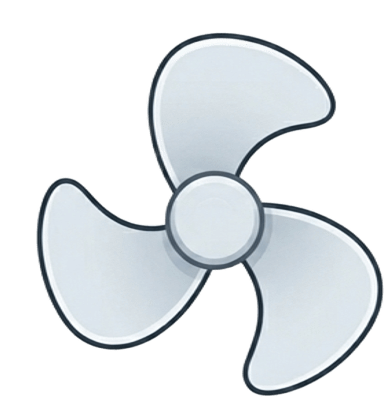
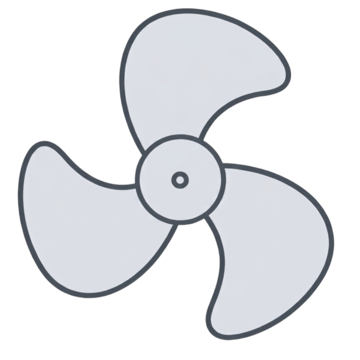
jaya

Changed region(s): [[0.0306, 0.0, 1.0, 1.0]]

diff --git a/chargeEffects.js b/chargeEffects.js
@@ -103,6 +103,125 @@ var CHARGE_EFFECTS = {
                 p._fx.glow = null;
             }
         }
+    },
+
+    // ── FAN ─────────────────────────────────────────────────────────────────
+    // A table fan rendered as three stacked layers: the base gadget sprite is the
+    // BODY (bottom, used for size), and this effect adds the BLADE (middle) and the
+    // FRONT_GRILL (top). Both secondary layers are smaller than the body and are
+    // pinned to the body's top-left at offset (0,0), scaled by the same factor the
+    // body was scaled by — so they stay inside the body's rect.
+    //
+    // As charge goes 0 → 1 the blade spins clockwise, easing from a slow crawl up
+    // to ~`maxRpm` (a real-fan-ish top speed). Body and grill stay still.
+    fan: {
+        assets(params) {
+            return {
+                blade: (params.blade || 'table_fan/blade.png'),
+                grill: (params.grill || 'table_fan/front_grill.png')
+            };
+        },
+
+        init(scene, p, params) {
+            p._fx = p._fx || {};
+
+            const bladeKey = `fx_${p._gadgetName}_blade`;
+            const grillKey = `fx_${p._gadgetName}_grill`;
+            const bodyKey  = `gadget_${p._gadgetName}_normal`;
+            if (!scene.textures.exists(bladeKey) || !scene.textures.exists(bodyKey)) return;
+
+            // Same scale the body was drawn at (display / native), so the secondary
+            // art keeps its real proportions relative to the body.
+            const bodyImg = scene.textures.get(bodyKey).getSourceImage();
+            const scale   = p._gadgetDisplayWidth / bodyImg.width;
+
+            // Body's top-left in world space (body is centered on the origin).
+            const bodyLeft = p._gadgetOriginX - p._gadgetDisplayWidth  / 2;
+            const bodyTop  = p._gadgetOriginY - p._gadgetDisplayHeight / 2;
+
+            const baseDepth = (p.gadgetSprite ? p.gadgetSprite.depth : 4);
+
+            // Pin a centered-origin sprite so its top-left lands at the body's
+            // top-left plus `off` (an offset in body-native pixels, scaled to match).
+            const place = (key, depth, off) => {
+                const img = scene.textures.get(key).getSourceImage();
+                const w  = img.width  * scale;
+                const h  = img.height * scale;
+                const ox = (off && off.x ? off.x : 0) * scale;
+                const oy = (off && off.y ? off.y : 0) * scale;
+                const s = scene.add.image(bodyLeft + ox + w / 2, bodyTop + oy + h / 2, key)
+                    .setDepth(depth);
+                s.setDisplaySize(w, h);   // origin 0.5 → rotates about its own center
+                return s;
+            };
+
+            // Blade is offset (36,41) from the body's top-left; grill stays at (0,0).
+            const blade = place(bladeKey, baseDepth + 0.05, params.bladeOffset || { x: 36, y: 41 });
+            const grill = scene.textures.exists(grillKey)
+                ? place(grillKey, baseDepth + 0.10, params.grillOffset || { x: 0, y: 0 })
+                : null;
+
+            // Fade the layers in alongside the body's pop-in animation so they don't
+            // flash at full size while the body is still growing.
+            const idx = (scene.platforms ? scene.platforms.indexOf(p) : 0);
+            [blade, grill].forEach(s => {
+                if (!s) return;
+                s.setAlpha(0);
+                scene.tweens.add({
+                    targets: s, alpha: 1, duration: 400,
+                    delay: Math.max(0, idx) * 150, ease: 'Sine.easeOut'
+                });
+            });
+
+            // Continuous clockwise spin driven by an infinite angle tween whose
+            // timeScale we throttle from 0 (still) up to maxRpm as charge fills.
+            // At timeScale 1 the tween does one revolution per `baseRevMs` = 60 rpm.
+            const baseRevMs = 1000;
+            const spin = scene.tweens.add({
+                targets: blade, angle: '+=360',
+                duration: baseRevMs, repeat: -1, ease: 'Linear'
+            });
+            spin.timeScale = 0;
+
+            p._fx.fanBlade     = blade;
+            p._fx.fanGrill     = grill;
+            p._fx.fanSpin      = spin;
+            p._fx.fanSpeedTween = null;
+            p._fx.fanMaxRpm    = params.maxRpm ?? 700;  // top speed (lowered for readability)
+            p._fx.fanRampExp   = params.rampExp ?? 2.0; // >1 = ease in (slow early, ramps later)
+            p._fx.fanSmoothMs  = params.speedSmoothMs ?? 1100; // glide-to-target time
+            p._fx.fanBaseRpm   = 60000 / baseRevMs;     // rpm at timeScale 1
+        },
+
+        onProgress(scene, p, progress, params) {
+            const spin = p._fx && p._fx.fanSpin;
+            if (!spin) return;
+            const mark = CONFIG.PLATFORM.OPERATING_CAPACITY_MARK || 1;
+            const t    = Math.min(progress / mark, 1);  // 0 → 1 by the mark, then held
+
+            // Charge arrives in discrete per-second steps, but speed shouldn't jump.
+            // Ease the curve (t^rampExp) so the spin keeps accelerating across the
+            // whole fill, then glide the spin's timeScale toward the new target like
+            // Unity's Mathf.MoveTowards instead of snapping to it.
+            const eased  = Math.pow(t, p._fx.fanRampExp);
+            const target = (p._fx.fanMaxRpm * eased) / p._fx.fanBaseRpm;
+
+            if (p._fx.fanSpeedTween) p._fx.fanSpeedTween.remove();
+            p._fx.fanSpeedTween = scene.tweens.add({
+                targets: spin, timeScale: target,
+                duration: p._fx.fanSmoothMs, ease: 'Linear'  // constant-rate, MoveTowards-like
+            });
+        },
+
+        onOvercharge() { /* keep spinning until the explosion/cleanup tears it down */ },
+
+        cleanup(scene, p) {
+            if (!p._fx) return;
+            if (p._fx.fanSpeedTween) { p._fx.fanSpeedTween.remove(); p._fx.fanSpeedTween = null; }
+            if (p._fx.fanSpin)  { p._fx.fanSpin.remove(); p._fx.fanSpin = null; }
+            if (p._fx.fanBlade) { scene.tweens.killTweensOf(p._fx.fanBlade); p._fx.fanBlade.destroy(); p._fx.fanBlade = null; }
+            if (p._fx.fanGrill) { scene.tweens.killTweensOf(p._fx.fanGrill); p._fx.fanGrill.destroy(); p._fx.fanGrill = null; }
+        }
     }
 };
 

diff --git a/gadgetData.js b/gadgetData.js
@@ -232,6 +232,23 @@ var GADGET_SPRITES = [
         "connection_height": 0.3,
         "connection_left_padding": 0.5
     },
+    {
+        // Table fan: body.png is the base sprite (drives display size); the blade
+        // and front grill are layered on top by the "fan" charge effect. The blade
+        // spins clockwise, ramping from slow to fan-like top speed as charge fills.
+        "name": "table_fan",
+        "normal_sprite": "table_fan/body.png",
+        "burnedout_sprite": "table_fan/body.png",
+        "connection_height": 0.3,
+        "connection_left_padding": 0.5,
+        "charge_effect": "fan",
+        "charge_effect_params": {
+            "blade": "table_fan/blade.png",
+            "grill": "table_fan/front_grill.png",
+            "maxRpm": 300,   // top spin speed
+            "rampExp": 2.0   // >1 = slow early, keeps accelerating as charge fills
+        }
+    },
 ];
 
 // ============================================================
@@ -241,6 +258,7 @@ var GADGET_SPRITES = [
 // Swap entries here to rearrange levels — no need to touch GADGET_SPRITES.
 // Cycles back to the start once levels run past the end of this list.
 var GADGET_LEVEL_ORDER = [
+    "table_fan",
     "sewing_machine",
     "bluetooth_speaker",
     "cooktop",
